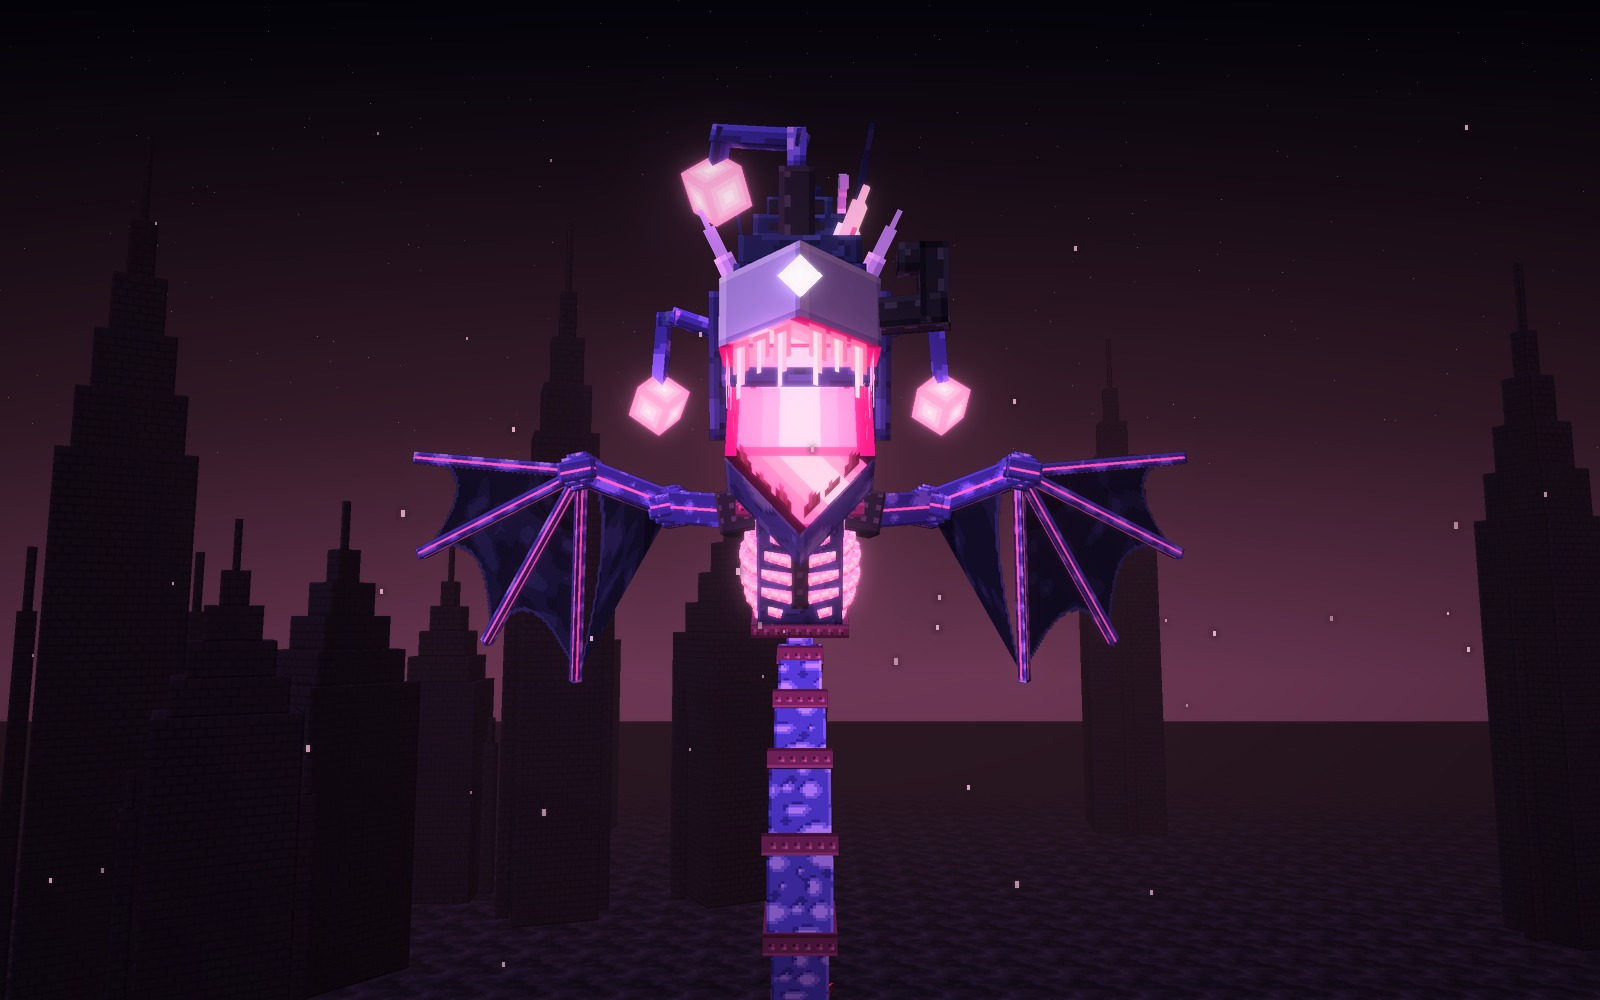
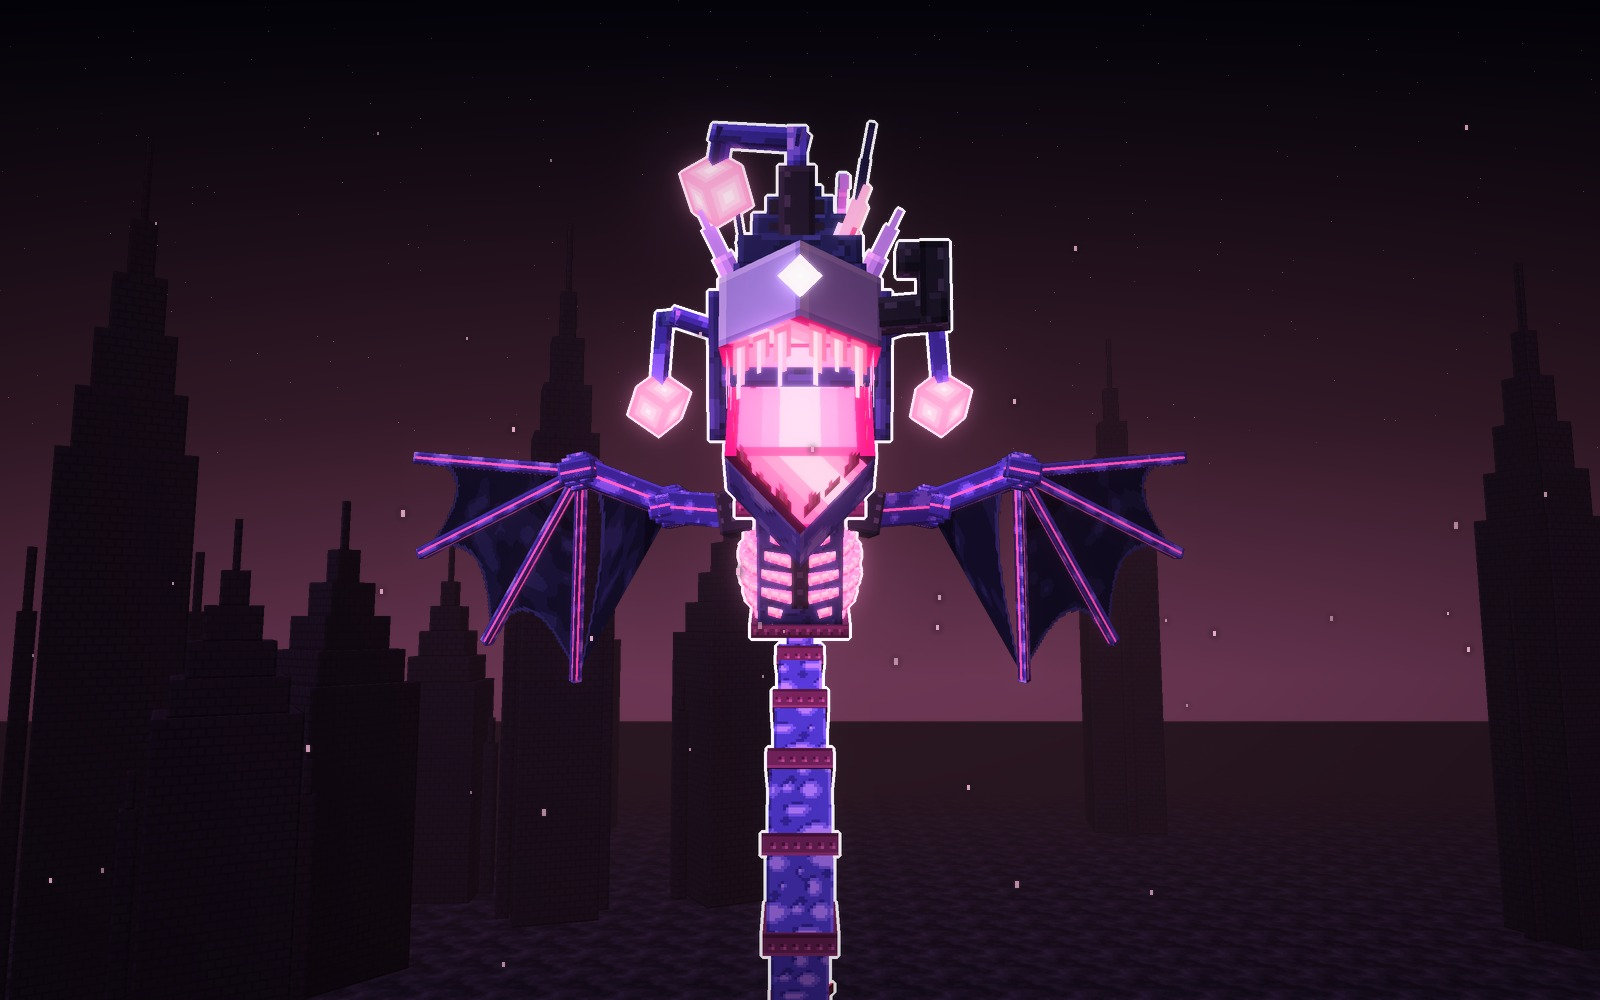
Ofidia sheet: white outline on every photo
The front, side and lineup views now carry the poster's white outline
too, like the hero, head and poster views. Juan liked it and wants it
on all of Ofidia's photos (and in game, our own and always, once
Ofidia goes into the mod).

diff --git a/materiales/generadores/ofidia_escenas.py b/materiales/generadores/ofidia_escenas.py
@@ -4,7 +4,9 @@ una en la misma explanada de noche con agujas de catedral detras (como el cartel
 y alumbrada por su neon; las cabezas de cerca; las cuatro juntas con un jugador; y la lamina
 de materiales.
 
-Las fotos salen sin letras: las fichas no llevan titulo ni texto encima de los renders.
+Las fotos salen sin letras: las fichas no llevan titulo ni texto encima de los renders. Todas
+llevan el contorno blanco del cartel alrededor de Ofidia (a Juan le gusto: «me gusto como el boss
+tiene ese borde blanco»).
 
 Uso: python ofidia_escenas.py <raiz del proyecto> <carpeta de salida> [escena,escena...]
      (con RAPIDO=1 en el entorno, a media resolucion para probar)
@@ -245,9 +247,16 @@ def cuatro():
     niebla = qe.Niebla(S['niebla'], *S['niebla_d'])
     cam = vr.Camara((0.0, 21.0, 255.0), (0.0, 21.5, 0.0), 22, W * SS, H * SS)
     suelo(lz, cam, niebla, S, ext=280, paso=32, cerca=40)
+    figura = np.zeros(lz.z.shape, bool)                       # para el contorno blanco de las cuatro
     for cual, x in (('O', -60.0), ('A', -20.0), ('B', 20.0), ('C', 60.0)):
         qs, info = om.ofidia(cual)
-        om.dibujar(lz, cam, qm.transformar(qs, vr.T(x, 0, 0) @ vr.Ry(-50 * D)), S['luces'], S['amb'], niebla)
+        qs = qm.transformar(qs, vr.T(x, 0, 0) @ vr.Ry(-50 * D))
+        n = info['n_alas']
+        om.dibujar(lz, cam, qs[len(qs) - n:], S['luces'], S['amb'], niebla)
+        z0 = lz.z.copy()
+        om.dibujar(lz, cam, qs[:len(qs) - n], S['luces'], S['amb'], niebla)
+        figura |= lz.z < z0
+    perfilar(lz, figura, max(1, int(round(2 * SS * K))))
     nm.dibujar(lz, cam, nm.quads(ne.jugador(), {}, ne.jugador_a_mundo(0.0, 20.0, 0)), S['luces'], S['amb'], niebla)
     guardar(revelar(lz, cam, W, H, S, n_motas=0), 'cuatro')
 
@@ -302,8 +311,10 @@ ESCENAS = {'heroe_' + c: (lambda c=c: heroe(c)) for c in 'OABC'}
 ESCENAS.update({'cabeza_' + c: (lambda c=c: cabeza(c)) for c in 'OABC'})
 ESCENAS.update({'cuatro': cuatro, 'materiales': materiales})
 ESCENAS.update({'cartel_' + c: (lambda c=c: cartel(c)) for c in 'OABC'})
-ESCENAS.update({'lado_' + c: (lambda c=c: guardar(escena(c, CAMARA_LADO, NOMBRE[c], SUB_CABEZA[c], 30), 'lado_' + c)) for c in 'OABC'})
-ESCENAS.update({'frente_' + c: (lambda c=c: guardar(escena(c, CAMARA_FRENTE, NOMBRE[c], SUB_CABEZA[c], 40), 'frente_' + c)) for c in 'OABC'})
+ESCENAS.update({'lado_' + c: (lambda c=c: guardar(escena(c, CAMARA_LADO, NOMBRE[c], SUB_CABEZA[c], 30, contorno=True), 'lado_' + c))
+                for c in 'OABC'})
+ESCENAS.update({'frente_' + c: (lambda c=c: guardar(escena(c, CAMARA_FRENTE, NOMBRE[c], SUB_CABEZA[c], 40, contorno=True),
+                                                   'frente_' + c)) for c in 'OABC'})
 
 if __name__ == '__main__':
     pedidas = sys.argv[3].split(',') if len(sys.argv) > 3 else list(ESCENAS)

diff --git a/materiales/fichas/ofidia/LEEME.md b/materiales/fichas/ofidia/LEEME.md
@@ -72,7 +72,9 @@ como tal». Hicieron falta quince versiones:
     borde en escalera); las costillas son huesos curvos, de la columna al esternón; y los
     huesos de las alas llevan una veta del neón que brilla un poco. Desde esta versión, las
     fotos van sin letras: «todas las fichas que guardes no deben de tener letras en las
-    fotos».
+    fotos». Y todas llevan el borde blanco del cartel («me gustó cómo el boss tiene ese
+    borde blanco»); en el juego, Ofidia lo llevará siempre, hecho por nosotros (que lo
+    tapen las paredes), cuando entre al mod.
 
 **La original es solo para estudiarla; no va al mod.** Las candidatas son las tres
 variantes. A Juan le gustó la Encadenada.
